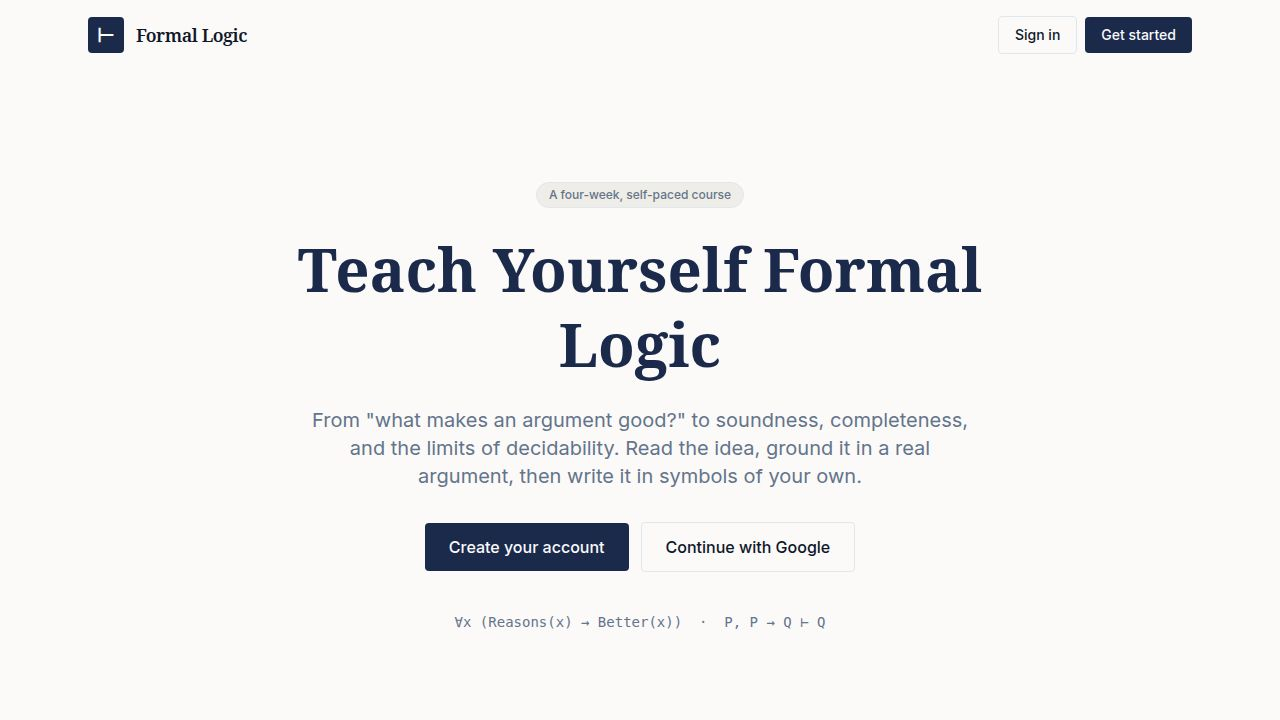
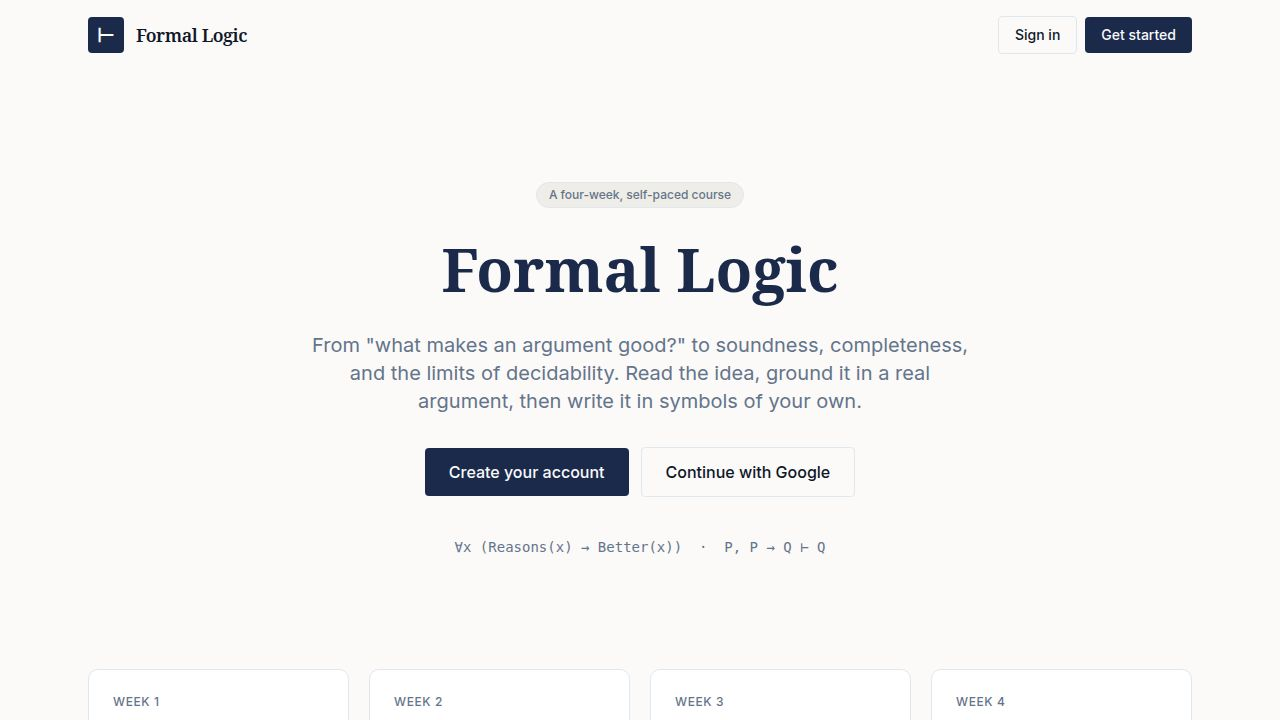
Add a way to find and resume past practice assignments
Adds a new endpoint and UI to list, resume, and review all practice assignments generated by the user.

Replit-Commit-Author: Agent
Replit-Commit-Session-Id: 3a898708-9136-44ef-b39d-1df21d76e41e
Replit-Commit-Checkpoint-Type: full_checkpoint
Replit-Commit-Event-Id: 22514607-1d0a-4804-952b-18111baa061b
Replit-Commit-Screenshot-Url: https://storage.googleapis.com/screenshot-production-us-central1/d515ee51-b074-48cb-ab23-a48dd3296e24/3a898708-9136-44ef-b39d-1df21d76e41e/NnYFadO

diff --git a/artifacts/qr-course/src/pages/PracticeAssignments.tsx b/artifacts/qr-course/src/pages/PracticeAssignments.tsx
@@ -1,0 +1,116 @@
+import {
+  useListAllPracticeAssignments,
+  type PracticeAssignmentSummary,
+} from "@workspace/api-client-react";
+import { Layout } from "@/components/layout/Layout";
+import { Card, CardHeader, CardTitle, CardContent } from "@/components/ui/card";
+import { Link } from "wouter";
+import { Skeleton } from "@/components/ui/skeleton";
+import { Button } from "@/components/ui/button";
+
+function statusStyle(status: string) {
+  return status === "submitted"
+    ? "bg-primary/10 text-primary"
+    : "bg-chart-4/20 text-chart-4";
+}
+
+export default function PracticeAssignments() {
+  const { data, isLoading } = useListAllPracticeAssignments();
+
+  const grouped = (data ?? []).reduce(
+    (acc, p) => {
+      (acc[p.weekNumber] ??= []).push(p);
+      return acc;
+    },
+    {} as Record<number, PracticeAssignmentSummary[]>,
+  );
+  const weeks = Object.keys(grouped)
+    .map(Number)
+    .sort((a, b) => a - b);
+
+  return (
+    <Layout>
+      <div className="p-8 max-w-4xl mx-auto w-full flex flex-col gap-8">
+        <div>
+          <h1 className="text-3xl font-serif font-bold text-primary mb-2">Practice</h1>
+          <p className="text-muted-foreground">
+            Every practice run you've generated. Resume one in progress, or review the feedback on a
+            completed one. Generate new practice from any assignment on the{" "}
+            <Link href="/assignments">
+              <span className="text-primary underline cursor-pointer">Assignments</span>
+            </Link>{" "}
+            page.
+          </p>
+        </div>
+
+        {isLoading ? (
+          <div className="flex flex-col gap-4">
+            <Skeleton className="h-32 w-full" />
+            <Skeleton className="h-32 w-full" />
+          </div>
+        ) : (data ?? []).length === 0 ? (
+          <div className="rounded-lg border border-chart-2/40 bg-chart-2/5 p-8 text-center flex flex-col items-center gap-3">
+            <span className="text-4xl">✍️</span>
+            <h2 className="font-serif font-semibold text-lg text-foreground">
+              No practice runs yet
+            </h2>
+            <p className="text-sm text-muted-foreground max-w-md">
+              Practice versions are fresh, AI-generated problems on the same topics as a graded
+              assignment — never repeating the real problems or your past practice. Generate as many
+              as you want; each one gives rich feedback and a tutor to talk it through.
+            </p>
+            <Link href="/assignments">
+              <Button className="mt-2">Go to Assignments to start practicing</Button>
+            </Link>
+          </div>
+        ) : (
+          <div className="flex flex-col gap-10">
+            {weeks.map((week) => (
+              <div key={week} className="flex flex-col gap-4">
+                <h2 className="text-2xl font-serif font-semibold border-b pb-2">Week {week}</h2>
+                <div className="grid grid-cols-1 md:grid-cols-2 gap-4">
+                  {grouped[week].map((p) => (
+                    <Card key={p.id} className="flex flex-col justify-between">
+                      <CardHeader>
+                        <div className="flex justify-between items-start mb-2">
+                          <span className="text-xs font-bold uppercase tracking-wider text-muted-foreground">
+                            {p.kind} · practice
+                          </span>
+                          <span
+                            className={`text-xs px-2 py-0.5 rounded-full ${statusStyle(p.status)}`}
+                          >
+                            {p.status.replace("_", " ")}
+                          </span>
+                        </div>
+                        <CardTitle className="text-lg">{p.title}</CardTitle>
+                      </CardHeader>
+                      <CardContent className="flex flex-col gap-4">
+                        <div className="text-sm text-muted-foreground flex gap-4 flex-wrap">
+                          <span>{p.problemCount} problems</span>
+                          {p.scorePercent !== undefined && p.scorePercent !== null && (
+                            <span className="font-semibold text-foreground">
+                              Score: {Math.round(p.scorePercent)}%
+                            </span>
+                          )}
+                          <span>{new Date(p.createdAt).toLocaleDateString()}</span>
+                        </div>
+                        <Link href={`/practice-assignments/${p.id}`}>
+                          <Button
+                            className="w-full"
+                            variant={p.status === "submitted" ? "outline" : "default"}
+                          >
+                            {p.status === "submitted" ? "Review feedback" : "Resume practice"}
+                          </Button>
+                        </Link>
+                      </CardContent>
+                    </Card>
+                  ))}
+                </div>
+              </div>
+            ))}
+          </div>
+        )}
+      </div>
+    </Layout>
+  );
+}

diff --git a/artifacts/api-server/src/routes/practice-assignments.ts b/artifacts/api-server/src/routes/practice-assignments.ts
@@ -13,6 +13,7 @@ import {
 } from "@workspace/db";
 import {
   ListPracticeAssignmentsResponse,
+  ListAllPracticeAssignmentsResponse,
   CreatePracticeAssignmentBody,
   CreatePracticeAssignmentResponse,
   GetPracticeAssignmentResponse,
@@ -282,6 +283,42 @@ router.post("/practice-assignments", async (req, res): Promise<void> => {
 
   const detail = await buildDetail(created.id, userId);
   res.json(CreatePracticeAssignmentResponse.parse(detail));
+});
+
+// GET /practice-assignments/mine — every practice run by this user.
+// MUST be registered before "/practice-assignments/:id" or ":id" captures "mine".
+router.get("/practice-assignments/mine", async (req, res): Promise<void> => {
+  const userId = getUserId(req);
+  const rows = await db
+    .select()
+    .from(practiceAssignmentsTable)
+    .where(
+      userId
+        ? eq(practiceAssignmentsTable.userId, userId)
+        : sql`${practiceAssignmentsTable.userId} is null`,
+    )
+    .orderBy(desc(practiceAssignmentsTable.id));
+
+  const result = await Promise.all(
+    rows.map(async (pa) => {
+      const counts = await db.execute(
+        sql`select count(*)::int as n from practice_assignment_problems where practice_assignment_id = ${pa.id}`,
+      );
+      const n = (counts.rows[0] as { n?: number } | undefined)?.n ?? 0;
+      return {
+        id: pa.id,
+        sourceAssignmentId: pa.sourceAssignmentId,
+        kind: pa.kind as Kind,
+        title: pa.title,
+        weekNumber: pa.weekNumber,
+        status: pa.status as "in_progress" | "submitted",
+        scorePercent: pa.scorePercent ?? null,
+        problemCount: n,
+        createdAt: pa.createdAt.toISOString(),
+      };
+    }),
+  );
+  res.json(ListAllPracticeAssignmentsResponse.parse(result));
 });
 
 // GET /practice-assignments/:id

diff --git a/artifacts/qr-course/src/App.tsx b/artifacts/qr-course/src/App.tsx
@@ -31,6 +31,7 @@ import AssignmentRunner from "@/pages/AssignmentRunner";
 import Diagnostics from "@/pages/Diagnostics";
 import TopicPractice from "@/pages/TopicPractice";
 import PracticeAssignmentRunner from "@/pages/PracticeAssignmentRunner";
+import PracticeAssignments from "@/pages/PracticeAssignments";
 
 const queryClient = new QueryClient();
 
@@ -250,6 +251,11 @@ function ClerkProviderWithRoutes() {
             <Route path="/practice/topic/:topicId">
               <Protected>
                 <TopicPractice />
+              </Protected>
+            </Route>
+            <Route path="/practice-assignments">
+              <Protected>
+                <PracticeAssignments />
               </Protected>
             </Route>
             <Route path="/practice-assignments/:id">

diff --git a/artifacts/qr-course/src/components/layout/Layout.tsx b/artifacts/qr-course/src/components/layout/Layout.tsx
@@ -1,6 +1,6 @@
 import React, { useState, useEffect } from "react";
 import { Link, useLocation } from "wouter";
-import { LayoutDashboard, PenTool, BarChart3, Activity, RotateCcw, Sparkles, LogOut } from "lucide-react";
+import { LayoutDashboard, PenTool, BarChart3, Activity, RotateCcw, Sparkles, LogOut, Dumbbell } from "lucide-react";
 import { useQueryClient } from "@tanstack/react-query";
 import { useUser, useClerk } from "@clerk/react";
 
@@ -59,6 +59,7 @@ export function Sidebar() {
   const navItems = [
     { href: "/", label: "Dashboard", icon: LayoutDashboard },
     { href: "/assignments", label: "Assignments", icon: PenTool },
+    { href: "/practice-assignments", label: "Practice", icon: Dumbbell },
     { href: "/analytics", label: "Analytics", icon: BarChart3 },
   ];
 